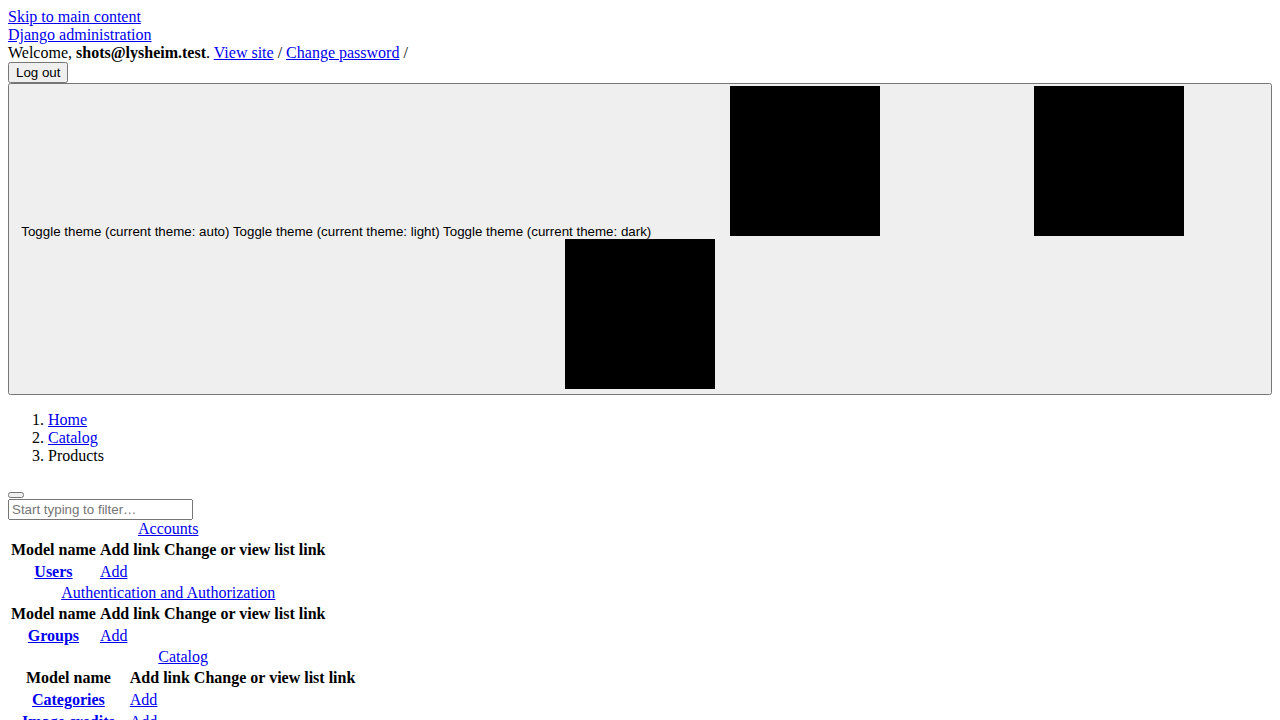
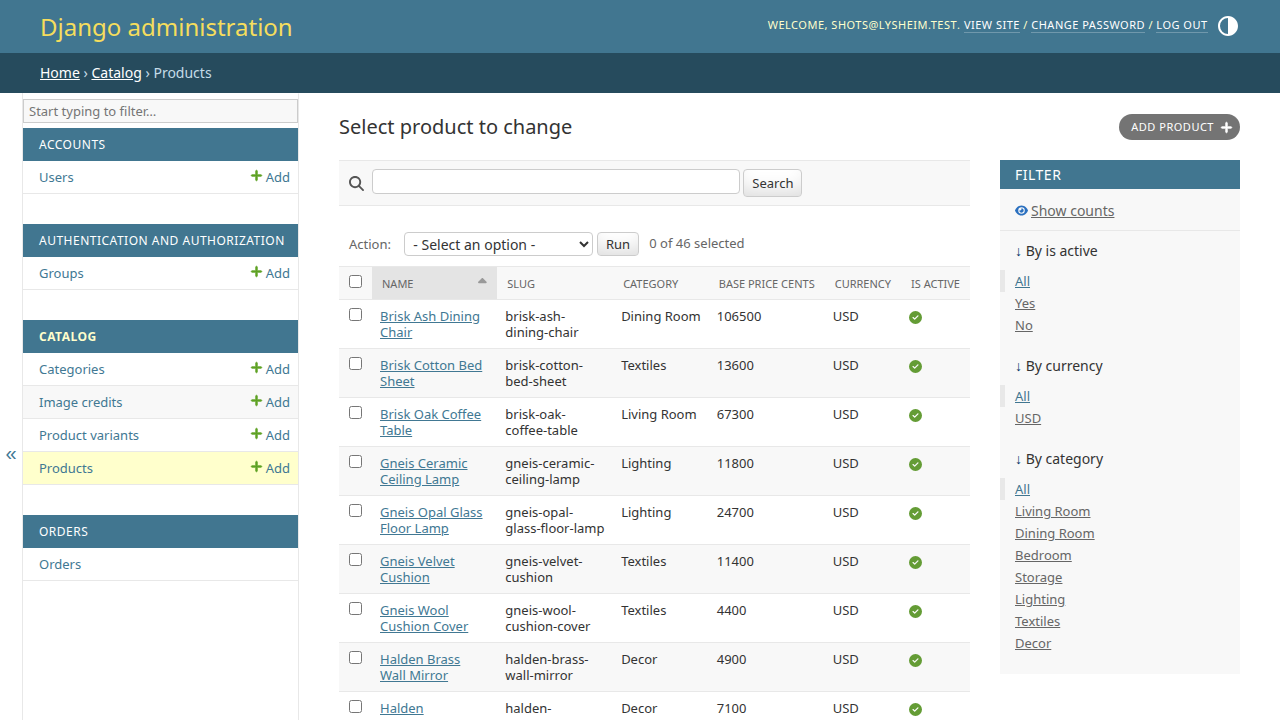
fix(console): serve the static files the admin had never had (M7.3a)
The console had no stylesheet in any environment, and had not since M5.1. `base.py` set
`STATIC_URL` and nothing else: no `STATIC_ROOT` for `collectstatic` to write to, no WhiteNoise to
serve it, and no `collectstatic` step in the image. So every `/static/admin/...` request was a 404
and Django's admin rendered as bare HTML — right structure, right words, no styling. It arrived as a
question rather than a bug report ("why is the admin ugly?"), and the answer was that nothing had
been changed and nothing was being served.

It survived a milestone that screenshotted the console because unstyled HTML still behaves: the
headings render, the tables have rows, the links navigate, the forms post — so every behavioural
assertion in `test_admin.py` passed and the capture ran without error. The tell was the file size and
nobody looked: the committed `12-admin-products.png` was 47 KB, and re-captured after the fix it is
131 KB.

The fix is a dependency and four settings:

- `whitenoise` in `MIDDLEWARE` directly under `SecurityMiddleware`, where its documentation puts it
- `STATIC_ROOT = BASE_DIR / "staticfiles"`
- `WHITENOISE_USE_FINDERS` in `dev.py`, so a checkout serves the console without collecting first
- `CompressedManifestStaticFilesStorage` in `prod.py`

`collectstatic` runs at image build time rather than on the boot path: the admin's assets are
immutable, so collecting them once per deploy buys nothing and adds work to a cold start. It runs
[…]

diff --git a/backend/config/settings/base.py b/backend/config/settings/base.py
@@ -146,6 +146,13 @@ MIDDLEWARE = [
     # to sit above anything that could answer first — `CommonMiddleware` most of all.
     "corsheaders.middleware.CorsMiddleware",
     "django.middleware.security.SecurityMiddleware",
+    # Serves the console's own CSS and JS, and nothing else does. The container runs `uvicorn` rather
+    # than `runserver`, so the development server's automatic static handling is not in play, and
+    # Render serves no files from a Docker image. Without this every `/static/admin/...` request is a
+    # `404`, and Django's admin renders as unstyled HTML — which reads as "the UI is broken" rather
+    # than as a missing stylesheet. Placed directly under `SecurityMiddleware`, which is where
+    # WhiteNoise documents it belongs.
+    "whitenoise.middleware.WhiteNoiseMiddleware",
     "django.contrib.sessions.middleware.SessionMiddleware",
     "django.middleware.common.CommonMiddleware",
     # The admin's forms are the only thing in this backend that leans on Django's CSRF protection:
@@ -201,6 +208,10 @@ USE_I18N = True
 USE_TZ = True
 
 STATIC_URL = "static/"
+# Where `collectstatic` writes the admin's CSS and JS, and what WhiteNoise serves them from. The
+# directory was already in `.gitignore` before anything wrote to it (`M0`); this is the setting that
+# was missing, which is why the console had no stylesheet in any environment.
+STATIC_ROOT = BASE_DIR / "staticfiles"
 DEFAULT_AUTO_FIELD = "django.db.models.BigAutoField"
 
 # Cross-origin access for the decoupled frontend (`ADR-0011`: the web app on Vercel, the API on

diff --git a/backend/tests/test_console_static.py b/backend/tests/test_console_static.py
@@ -1,0 +1,30 @@
+"""The console loads its own stylesheets and scripts.
+
+Found at `M7.3`, and late. Nothing served `/static/` in any environment: there was no `STATIC_ROOT`,
+no WhiteNoise in `MIDDLEWARE`, and no `collectstatic` in the image, so every `/static/admin/...`
+request was a `404` and Django's admin rendered as **unstyled HTML** — the console looked like
+something half-built rather than like Django's admin. It survived a milestone that screenshotted the
+console, because no test asserted the page could load its own assets and unstyled HTML still behaves:
+the headings render, the tables have rows, the links work, and every behavioural assertion passes.
+
+These are the assertions that were missing. They run against `config.settings.dev`, where WhiteNoise
+serves from the static finders (`WHITENOISE_USE_FINDERS`), so they also stand in for "a checkout has a
+working console without running `collectstatic` first".
+"""
+
+from django.test import Client
+
+
+def test_the_stylesheet_the_console_depends_on_is_served(client: Client) -> None:
+    """The one file whose absence is invisible to every behavioural test."""
+    response = client.get("/static/admin/css/base.css")
+
+    assert response.status_code == 200
+    assert response["Content-Type"].startswith("text/css")
+
+
+def test_a_console_script_is_served(client: Client) -> None:
+    """A second asset, so a fix that special-cased one path would not pass."""
+    response = client.get("/static/admin/js/theme.js")
+
+    assert response.status_code == 200

diff --git a/backend/config/settings/prod.py b/backend/config/settings/prod.py
@@ -38,6 +38,15 @@ SECURE_PROXY_SSL_HEADER = ("HTTP_X_FORWARDED_PROTO", "https")
 # reason a deploy fails to come up.
 SECURE_REDIRECT_EXEMPT = [r"^healthz$"]
 
+# The admin's stylesheets and scripts as `collectstatic` writes them: hashed for far-future caching,
+# compressed, and served by WhiteNoise (`MIDDLEWARE` in `base.py`). The manifest is built into the
+# image, which is why this storage is switched on only here — a checkout that has never collected
+# would raise on a missing manifest entry rather than quietly serve an unhashed file.
+STORAGES = {
+    "default": {"BACKEND": "django.core.files.storage.FileSystemStorage"},
+    "staticfiles": {"BACKEND": "whitenoise.storage.CompressedManifestStaticFilesStorage"},
+}
+
 # The API and the web app are different sites in production (Render and Vercel), so the refresh
 # cookie has to be `SameSite=None` to survive the cross-site call — and browsers only accept
 # `SameSite=None` together with `Secure` (`ADR-0009`).

diff --git a/backend/config/settings/dev.py b/backend/config/settings/dev.py
@@ -7,3 +7,8 @@ from .base import env
 
 DEBUG = env.bool("DJANGO_DEBUG", default=True)
 ALLOWED_HOSTS = env.list("DJANGO_ALLOWED_HOSTS", default=["localhost", "127.0.0.1"])
+
+# Serve the admin's CSS and JS straight from the app directories, so a working console in development
+# does not depend on having run `collectstatic` first. Production serves the collected, hashed copy
+# instead (`prod.py`), which is built into the image.
+WHITENOISE_USE_FINDERS = True

diff --git a/docs/04-delivery/RUNBOOK.md b/docs/04-delivery/RUNBOOK.md
@@ -1552,6 +1552,50 @@ probe accounts created while measuring this (`probe-*@…lysheim.test`, and the 
 `browser-check@example.com`) are left in the demo database; they are harmless and deletable from the
 console once an operator exists.
 
+### 7.12 The console's own CSS and JS
+
+The admin is the only part of this backend that serves files rather than JSON, and nothing else
+serves them: the container runs `uvicorn`, not `manage.py runserver`, so the development server's
+automatic static handling is not in play, and Render serves no files from a Docker image. WhiteNoise
+in `MIDDLEWARE` is what answers `/static/…`, and it did not exist until `v0.1.60` — before that, every
+stylesheet was a `404` and the console rendered as unstyled HTML in **development as well as
+production**, which meant neither environment could be used to rule the other out.
+
+Two settings, one per environment, and they must not be swapped:
+
+| | Serves from | Needs `collectstatic`? |
+| --- | --- | --- |
+| `dev` | the static **finders** (`WHITENOISE_USE_FINDERS`) | no — a fresh checkout has a working console |
+| `prod` | `STATIC_ROOT`, through `CompressedManifestStaticFilesStorage` | **yes**, at image build |
+
+`collectstatic` runs in the `Dockerfile`, not on the boot path: the assets are immutable, so
+collecting them once per deploy buys nothing and adds work to a cold start. It runs under
+`DJANGO_ENV=prod` with a placeholder `DJANGO_SECRET_KEY`, because `prod.py` refuses to import without
+one; the build signs nothing and the real key arrives as an environment variable at run time.
+
+Check it in one line, against either host — `200` and a four-figure `size_download` means the console
+has a stylesheet, `404` means it does not:
+
+```bash
+curl -sS -o /dev/null -w "%{http_code} %{size_download}\n" "$API/static/admin/css/base.css"
+```
+
+Rebuild the collection by hand (it writes to `backend/staticfiles/`, which is git-ignored):
+
+```bash
+cd backend
+DJANGO_ENV=prod DJANGO_SECRET_KEY=local-verify DJANGO_ALLOWED_HOSTS=example.invalid \
+  uv run python manage.py collectstatic --noinput
+```
+
+Expected: 130 files copied, ~390 post-processed, and `staticfiles/staticfiles.json` carrying a hashed
+name for every asset (`admin/css/base.css → admin/css/base.<hash>.css`). A missing manifest is not a
+cosmetic failure under `prod` settings — the storage raises rather than serving an unhashed file, so an
+image built without the collect step fails loudly on the first admin page rather than looking unstyled.
+
+`tests/test_console_static.py` asserts both an asset and its content type, so this cannot regress
+without a test failing.
+
 ## 8. Troubleshooting
 
 > Accumulates as real problems occur (e.g. Postgres connection, port conflicts, cold-start
@@ -1597,6 +1641,22 @@ console once an operator exists.
     -H 'Access-Control-Request-Headers: authorization,content-type,idempotency-key' \
     | grep -i access-control-allow-headers
   ```
+- **The admin renders unstyled — bare HTML, no CSS, in development and in production alike.** Every
+  `/static/admin/…` request is a `404`. Nothing serves the console's assets by default: `uvicorn` does
+  not, the way `manage.py runserver` does, and Render serves no files from a Docker image. Confirm it
+  in one line (`404` → the fault below; `200` with a four-figure byte count → something else):
+
+  ```bash
+  curl -sS -o /dev/null -w "%{http_code} %{size_download}\n" "$API/static/admin/css/base.css"
+  ```
+
+  A correct setup answers `200` and about `24 538` bytes. The three things that have to be true, and
+  each has been missing at some point: WhiteNoise is in `MIDDLEWARE`, `STATIC_ROOT` is set, and the
+  image runs `collectstatic` at build time. `RUNBOOK.md` §7.12 has the detail and the expected
+  `collectstatic` output. **This is the failure mode worth remembering the shape of**: unstyled HTML
+  still renders headings, tables and working links, so every behavioural test passes, screenshots
+  capture without error, and the page looks "unfinished" rather than broken. The tell is the image
+  size — an unstyled console screenshot is ~47 KB where a styled one is ~131 KB.
 - **A Render deploy fails at start-up with `python manage.py migrate … : not found`.** A compound
   command in `render.yaml`'s `dockerCommand`. Render strips a leading `/bin/sh -c` from that field and
   runs the remainder through its own shell, so the quotes that a `&&` chain needs turn the entire

diff --git a/docs/CHANGE-LOG.md b/docs/CHANGE-LOG.md
@@ -6,6 +6,51 @@
 
 ## History
 
+### 2026-10-16 — v0.1.60 — the console that had no stylesheet
+
+A question, not a bug report: *"why is the admin ugly, and did you change the UI?"* The answer was
+that nothing had been changed — and that **nothing was being served**. Django's admin was arriving
+without a single one of its stylesheets.
+
+**The fault had been there since `M5.1`.** `base.py` set `STATIC_URL` and nothing else: no
+`STATIC_ROOT` for `collectstatic` to write to, no WhiteNoise to serve it, and no `collectstatic` step
+in the `Dockerfile`. So every request the admin page makes for its own CSS and JS —
+`/static/admin/css/base.css` first — was a `404`, in every environment. The page rendered as bare
+HTML: right structure, right words, no styling at all. It looked like a console somebody had started
+and abandoned, which is exactly how it was reported.
+
+**Why it survived a milestone that screenshotted the console.** Because unstyled HTML still *behaves*.
+The headings render, the tables have rows, the links navigate, the forms post — so every behavioural
+assertion in `tests/test_admin.py` passed, the three console screenshots were captured without error,
+and nothing anywhere asserted that a page could load its own assets. The tell was in the file sizes
+and nobody looked: the committed `12-admin-products.png` was **47 KB**, and the same screenshot after
+the fix is **131 KB**. A styled admin is nearly three times the pixels; the old one was small because
+there was nothing on the page to compress.
+
+**The fix is a dependency and four settings**, which is the shape of a problem that hid this long:
+`whitenoise` in `MIDDLEWARE` directly under `SecurityMiddleware` (where its documentation puts it),
+`STATIC_ROOT = BASE_DIR / "staticfiles"`, `WHITENOISE_USE_FINDERS` in `dev.py` so a checkout serves the
+console without a collect step, and `CompressedManifestStaticFilesStorage` in `prod.py` for hashed,
+compressed files. The image runs `collectstatic` at **build** time rather than on the boot path: the
+console's assets are immutable, so collecting them once per deploy buys nothing and slows a cold start
+on a plan that already pays for its sleeps. `.gitignore` had carried `/staticfiles/` since `M0` — the
+rule was written for a setting that was never added, which is what made this look like a thing that had
+already been handled.
+
+**Evidence.** `/static/admin/css/base.css` before: `404`, 179 bytes of Django's 404 page. After:
+`200`, `24 538` bytes, `text/css`. `collectstatic` under production settings: 130 files, 390
+post-processed, and `staticfiles.json` carrying `admin/css/base.css → admin/css/base.6398cd16ee3d.css`.
+Two tests now assert it (`tests/test_console_static.py`) — one stylesheet and one script, so a fix that
+special-cased a single path would not pass — and the console screenshots are re-captured, so the README
+now shows the console rather than the absence of one.
+
+Two things worth naming for the next person. `collectstatic` runs at build time under `DJANGO_ENV=prod`
+with a placeholder `DJANGO_SECRET_KEY`, because `prod.py` refuses to import without one and signs
+nothing during a build; the real key arrives as an environment variable at run time. And the
+`404` was equally present *locally*, because this project serves the API with `uvicorn` rather than
+`manage.py runserver` — the development server's automatic static handling is not in play, so local
+and deployed failed identically and neither could be used to rule the other out.
+
 ### 2026-10-15 — v0.1.59 — `M7.3`: the README, and the deploy that cannot keep a session
 
 The last increment of `M7`, and it is mostly the README — which had gone stale in the way READMEs

diff --git a/docs/04-delivery/ROADMAP.md b/docs/04-delivery/ROADMAP.md
@@ -252,6 +252,15 @@ Status legend: `[ ]` planned · `[~]` in progress · `[x]` done.
   pass closed a type gate the deploy never sees: `replaced_by_id` on a self-referential FK trips
   `basedpyright` because the field is declared against the string `"self"` (`ADR-0014`'s gap, from the
   field side rather than the reverse one).
+- [x] `M7.3a` The console had never had a stylesheet, and this is where that surfaced — asked, plainly,
+  *why the admin is ugly*. Nothing served `/static/` at all: no `STATIC_ROOT`, no WhiteNoise, no
+  `collectstatic` in the image, so every admin stylesheet had been a `404` since `M5.1` and the console
+  rendered as bare HTML — in development too, because this project serves the API with `uvicorn` rather
+  than `runserver`. It survived a milestone that screenshotted the console because unstyled HTML still
+  behaves: the headings and tables render, the links work, every behavioural assertion passes, and the
+  screenshots captured happily at 47 KB each where a styled one is 131 KB. Fixed with WhiteNoise, its
+  two per-environment settings and a build-time `collectstatic`; asserted by
+  `tests/test_console_static.py`; the console screenshots re-captured. `v0.1.60` has the measurement.
 
 ### M8 — Data track (Phase 2, deferred)
 
